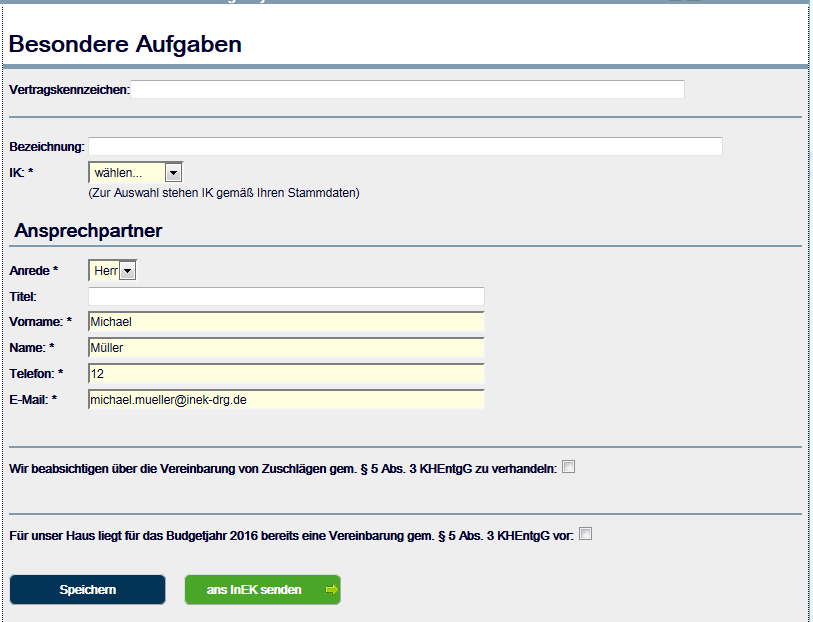
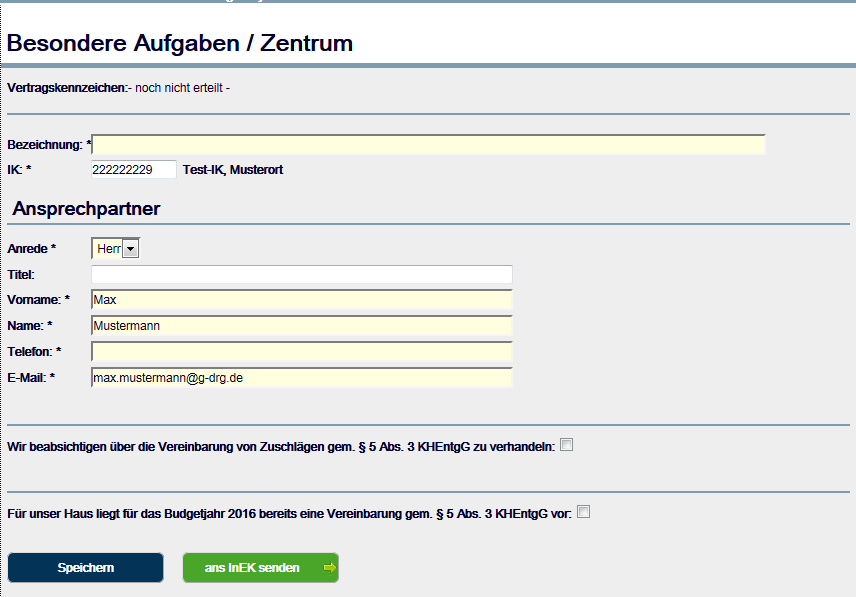
manual, documentation

Changed region(s): [[0.0, 0.0, 1.0, 1.0], [0.0, 0.9045, 0.4305, 0.995], [0.2768, 0.0, 0.3075, 0.0302]]

diff --git a/DataPortal/src/main/java/org/inek/dataportal/feature/specificfunction/EditSpecificFunction.java b/DataPortal/src/main/java/org/inek/dataportal/feature/specificfunction/EditSpecificFunction.java
@@ -15,8 +15,10 @@ import java.util.Map;
 import java.util.Set;
 import java.util.logging.Logger;
 import javax.annotation.PostConstruct;
+import javax.faces.application.FacesMessage;
 import javax.faces.context.FacesContext;
 import javax.faces.model.SelectItem;
+import javax.faces.validator.ValidatorException;
 import javax.faces.view.ViewScoped;
 import javax.inject.Inject;
 import javax.inject.Named;
@@ -115,6 +117,10 @@ public class EditSpecificFunction extends AbstractEditController implements Seri
         request.setPhone(account.getPhone());
         request.setMail(account.getEmail());
         request.setDataYear(Utils.getTargetYear(Feature.SPECIFIC_FUNCTION));
+        List<SelectItem> iks = getIks();
+        if (iks.size() == 1){
+            request.setIk((int) iks.get(0).getValue());
+        }
         return request;
     }
 
@@ -237,7 +243,7 @@ public class EditSpecificFunction extends AbstractEditController implements Seri
         checkField(message, request.getPhone(), "lblPhone", "specificFuntion:phone");
         checkField(message, request.getMail(), "lblMail", "specificFuntion:mail");
 
-        if (!request.isHasAgreement() && !request.isHasAgreement()){
+        if (!request.isWillNegotiate() && !request.isHasAgreement()){
             applyMessageValues(message, "Bitte mindestens eine zu verhandelnde oder vorhandene Vereinbarung angeben", "");
         }
         boolean hasCenters = false;
@@ -255,7 +261,7 @@ public class EditSpecificFunction extends AbstractEditController implements Seri
                 checkField(message, center.getOtherSpecificFunction(), "Bitte sonstige besondere Aufgaben angeben", "");
             }
             checkField(message, center.getTypeId(), 1, 2, "Bitte Ausweisung und Festsetzung angeben", "");
-            checkField(message, center.getEstimatedPatientCount(), 1, 99999999, "Bitte besondere Aufgaben angeben", "");
+            checkField(message, center.getEstimatedPatientCount(), 1, 99999999, "Anzahl der Patienten muss größer 0 sein.", "");
             hasCenters = true;
         }
         if (request.isWillNegotiate() && !hasCenters){

diff --git a/DataPortal/src/main/java/org/inek/dataportal/entities/specificfunction/SpecificFunctionRequest.java b/DataPortal/src/main/java/org/inek/dataportal/entities/specificfunction/SpecificFunctionRequest.java
@@ -168,7 +168,7 @@ public class SpecificFunctionRequest implements Serializable {
 
     public void setTitle(String title) {
         // When loading from ICMT a string might be null. Thus we check every string value here and replace null by an empty string.
-        _title = title == null ? "" : title;
+        _title = title;
     }
     // </editor-fold>
 
@@ -183,7 +183,7 @@ public class SpecificFunctionRequest implements Serializable {
     }
 
     public void setFirstName(String firstName) {
-        _firstName = firstName == null ? "" : firstName;
+        _firstName = firstName;
     }
     // </editor-fold>
 
@@ -198,7 +198,7 @@ public class SpecificFunctionRequest implements Serializable {
     }
 
     public void setLastName(String lastName) {
-        _lastName = lastName == null ? "" : lastName;
+        _lastName = lastName;
     }
     // </editor-fold>
 
@@ -213,7 +213,7 @@ public class SpecificFunctionRequest implements Serializable {
     }
 
     public void setPhone(String phone) {
-        _phone = phone == null ? "" : phone;
+        _phone = phone;
     }
     // </editor-fold>
 
@@ -228,7 +228,7 @@ public class SpecificFunctionRequest implements Serializable {
     }
 
     public void setMail(String mail) {
-        _mail = mail == null ? "" : mail;
+        _mail = mail;
     }
     // </editor-fold>
 

diff --git a/DataPortal/src/main/java/org/inek/dataportal/utils/DocumentationUtil.java b/DataPortal/src/main/java/org/inek/dataportal/utils/DocumentationUtil.java
@@ -144,10 +144,10 @@ public class DocumentationUtil {
     private void addDocToSubList(Map<Long, KeyValueLevel> subList, Documentation doc, String elementName, Object rawValue, int position) {
         Long sorterKey = 1000L * doc.rank() + position;
         String name = getName(doc, elementName);
-        if ((rawValue.toString().length() == 0 && doc.omitOnEmpty()) || doc.omitAlways()) {
+        if ((rawValue == null || rawValue.toString().length() == 0 )&& doc.omitOnEmpty() || doc.omitAlways()) {
             return;
         }
-        if (!doc.omitOnValues().isEmpty()) {
+        if (rawValue != null && !doc.omitOnValues().isEmpty()) {
             List<String> values = Arrays.asList(doc.omitOnValues().split(";"));
             if (values.contains(rawValue.toString())) {
                 return;
@@ -178,6 +178,9 @@ public class DocumentationUtil {
     }
 
     private String translate(Object rawValue, Documentation doc) {
+        if (rawValue == null){
+            return "";
+        }
         if (rawValue instanceof Boolean) {
             return (boolean) rawValue ? "Ja" : "Nein"; // todo: replace by localized message
         }

diff --git a/DataPortal/src/main/java/org/inek/dataportal/facades/SpecificFunctionFacade.java b/DataPortal/src/main/java/org/inek/dataportal/facades/SpecificFunctionFacade.java
@@ -115,7 +115,7 @@ public class SpecificFunctionFacade extends AbstractDataAccess {
         return findAll(CenterName.class)
                 .stream()
                 .filter(n -> n.getId() > 0)
-                .sorted((n1, n2) -> n1.getName().compareTo(n2.getName()))
+                .sorted((n1, n2) -> (n1.getId() == -1 ? "ZZZ" : n1.getName()).compareTo((n2.getId() == -1 ? "ZZZ" : n2.getName())))
                 .collect(Collectors.toList());
     }
   
